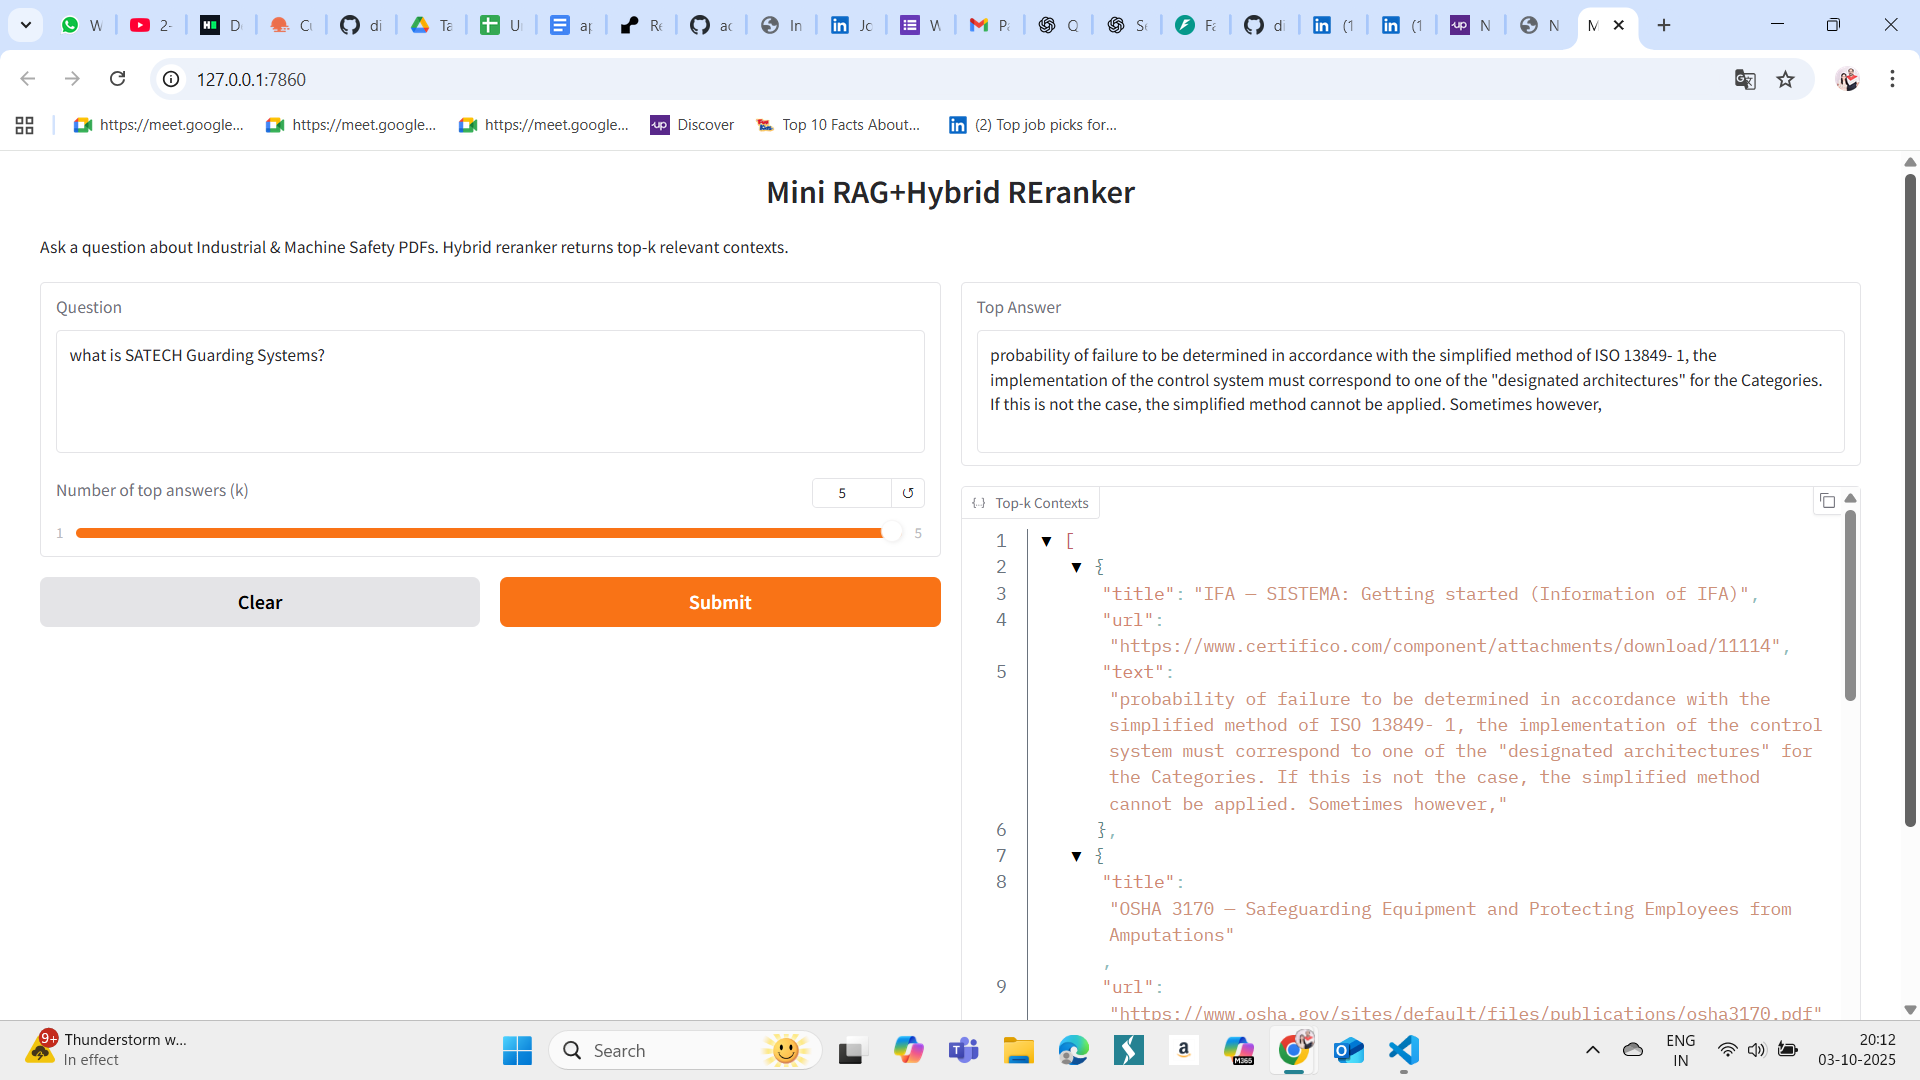
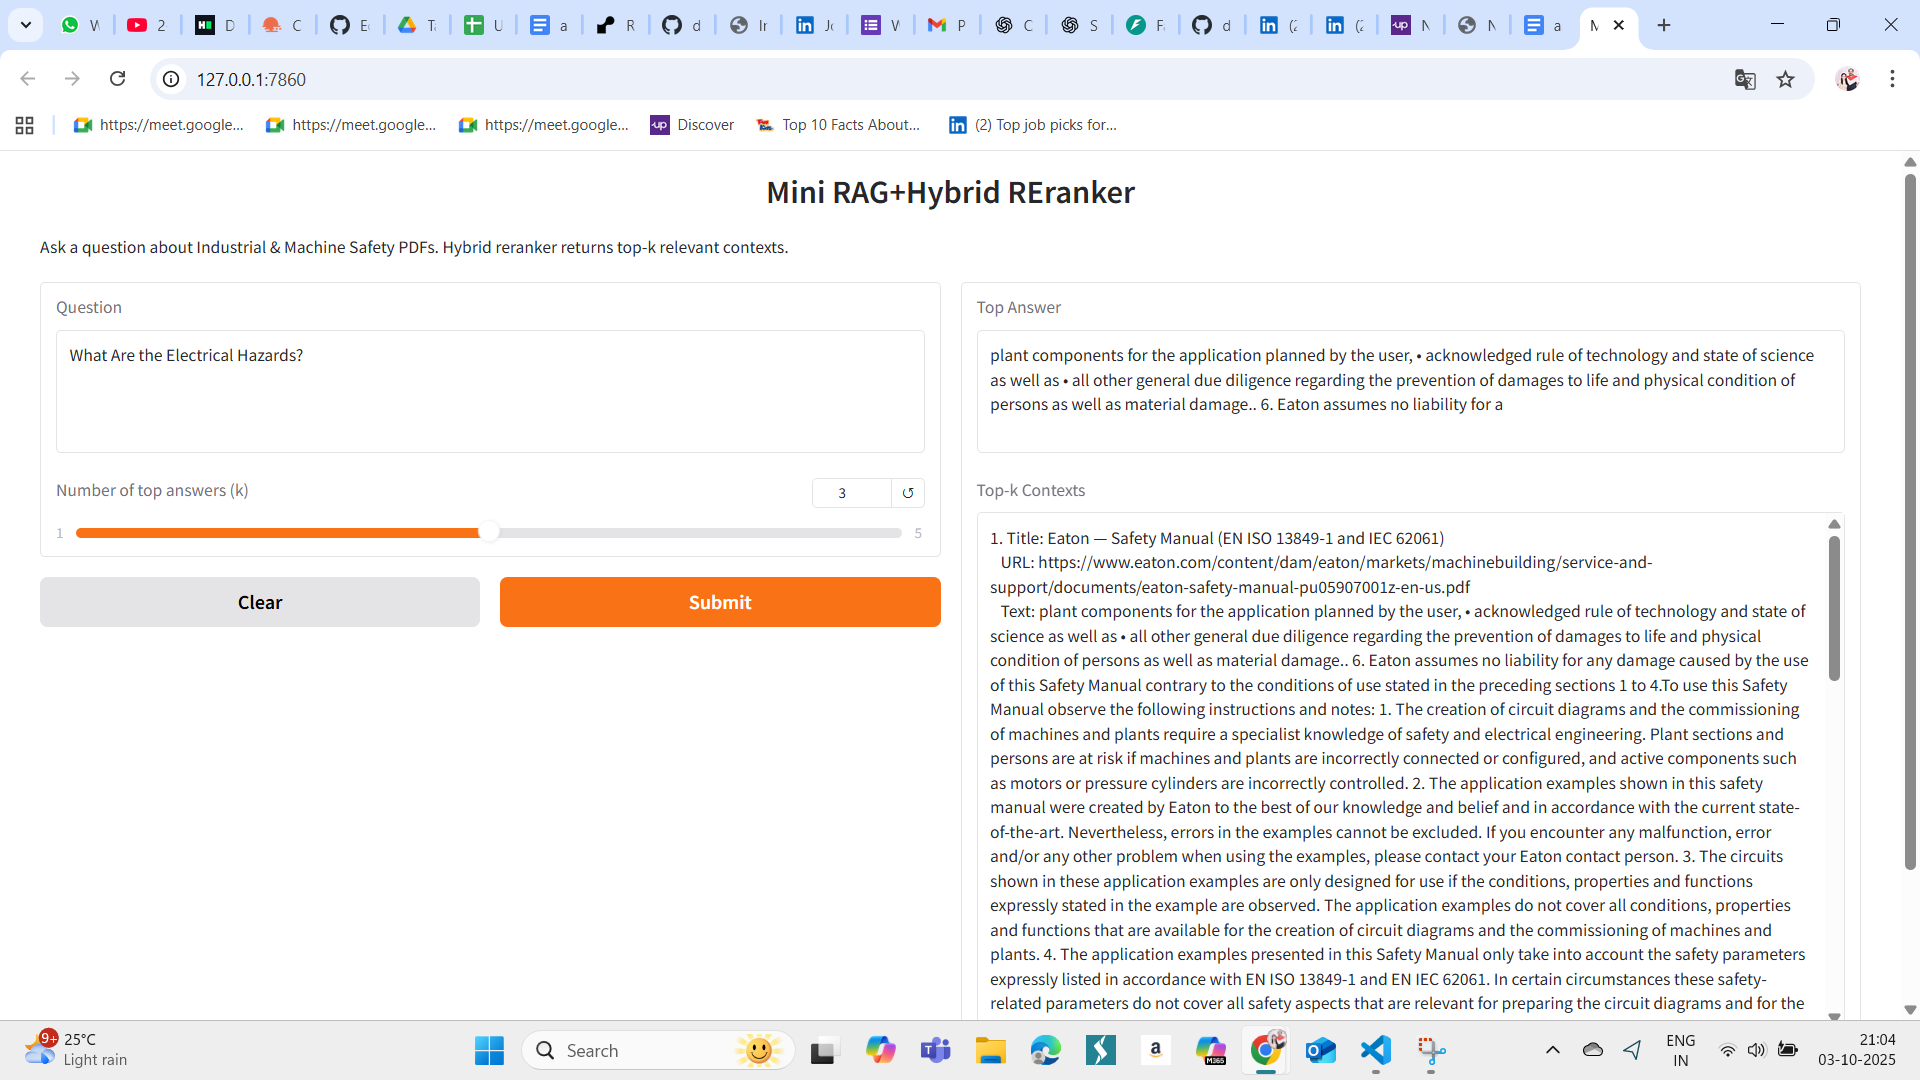
Output formatted

diff --git a/main.py b/main.py
@@ -30,6 +30,14 @@ def keyword_score(chunk_text,query):
 def home():
     return {"message": "API is running. Use POST /ask"}
 
+def format_contexts(contexts):
+    formatted = ""
+    for i, ctx in enumerate(contexts):
+        formatted += f"{i+1}. Title: {ctx['title']}\n"
+        formatted += f"   URL: {ctx['url']}\n"
+        formatted += f"   Text: {ctx['text']}\n\n"
+    return formatted
+
 
 def retrieve_top_k(q:str,k:int=5):
     k=int(k)
@@ -85,12 +93,10 @@ def retrieve_top_k(q:str,k:int=5):
     
     
     answer_text=top_chunk[0]['text'][:300] if top_chunk else "No answer found"
-    contexts=[{"title":chunk['title'],"url":chunk['url'],"text":chunk['text'][:300]}
-              for chunk in top_chunk
-              ]
+    contexts_formatted = format_contexts(top_chunk)
     conn.close()
 
-    return answer_text,contexts
+    return answer_text,contexts_formatted 
 @app.post("/ask")
 def ask(q: str, k: int = 5):
     answer,contexts=retrieve_top_k(q,k)
@@ -105,7 +111,7 @@ iface=gr.Interface(
     ],
     outputs=[
         gr.Textbox(lines=4,label="Top Answer"),
-        gr.JSON(label="Top-k Contexts")
+        gr.TextArea(lines=20,label="Top-k Contexts")
     ],
     title="Mini RAG+Hybrid REranker",
     description="Ask a question about Industrial & Machine Safety PDFs. Hybrid reranker returns top-k relevant contexts."
